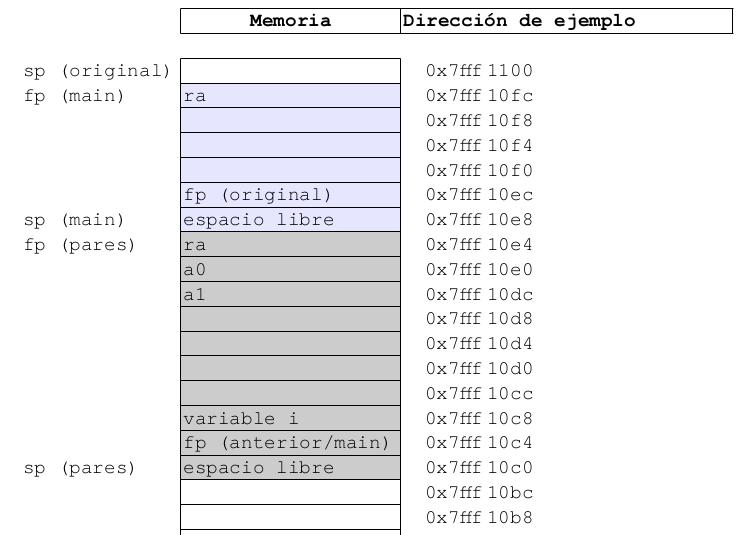
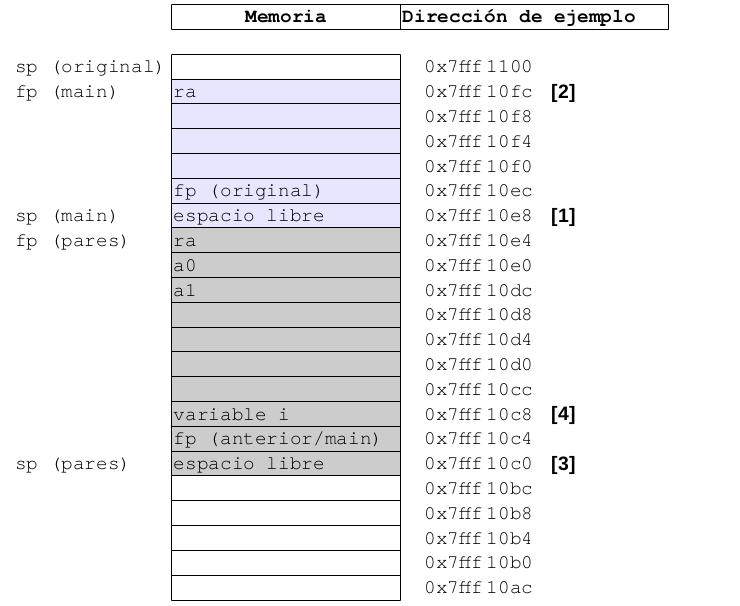
mips

diff --git a/ayodc1/apuntes/mips.html b/ayodc1/apuntes/mips.html
@@ -851,8 +851,6 @@ ser utilizada para resguardar ningún valor.
 <p>Cuando el procedimiento que utilizó pila está por retornar a su llamador 
 debe restablecer el valor original de sp, sumando la misma cantidad de bytes
 que sustrajo al crear espacio de pila.
-En la figura 3 se observa un esquema de pila para una función junto con el
-código en lenguaje ensamblador que gestiona la pila.
 </section>
 
 <section class=nonum>
@@ -890,7 +888,7 @@ void main()
 </pre>
 
 <section class=nonum>
-<header>Traducción a lenguaje ensamblador MIPS</header>
+<header>Traducción del código en C a lenguaje ensamblador MIPS</header>
 <pre>
 # Inicio del codigo en lenguaje ensamblador MIPS
 
@@ -972,12 +970,27 @@ main:
 	addiu   $sp,$sp,32      # Libera el espacio utilizado del segmento pila
 </pre>
 
+<br>
+<p> En la siguiente figura (1) se observa el esquema del segmento de 
+pila para el ejemplo anterior. Se marca con celeste claro el marco
+de pila para main, y en gris el marco de pila del procedimiento pares.
+
+<br>
 <p>
 <!--figure class=column-top-->
 <figure>
 <a href="imagenes/memoria.jpg"><img style="width: 80%" src="imagenes/memoria.jpg"></a>
-<figcaption>Mapa de la memoria para el Ejemplo de las funciones main, pares y swap.</figcaption>
 </figure>
+
+<br>
+<p><b>Referencias [1], [2], [3] y [4] de la figura:</b>
+ <ol>
+  <li>Este es el valor de sp luego de que la CPU ejecuta la instrucción de main: addiu $sp, $sp, -24 </li>
+  <li>Este es el valor de fp luego de que la CPU ejecuta la instrucción de main: addi $fp, $sp, 28.
+ra es almacenado en la pila a través de la instrucción de main: sw $ra, 30($sp)</li>
+  <li>Este es el nuevo valor de sp luego de que la CPU ejecuta la instrucción del procedimiento pares: addiu $sp, $sp, -40</li>
+  <li>En esta dirección se mantiene la variable i definida en el procedimiento pares en el código original en C</li>
+</ol> 
 
 
 
